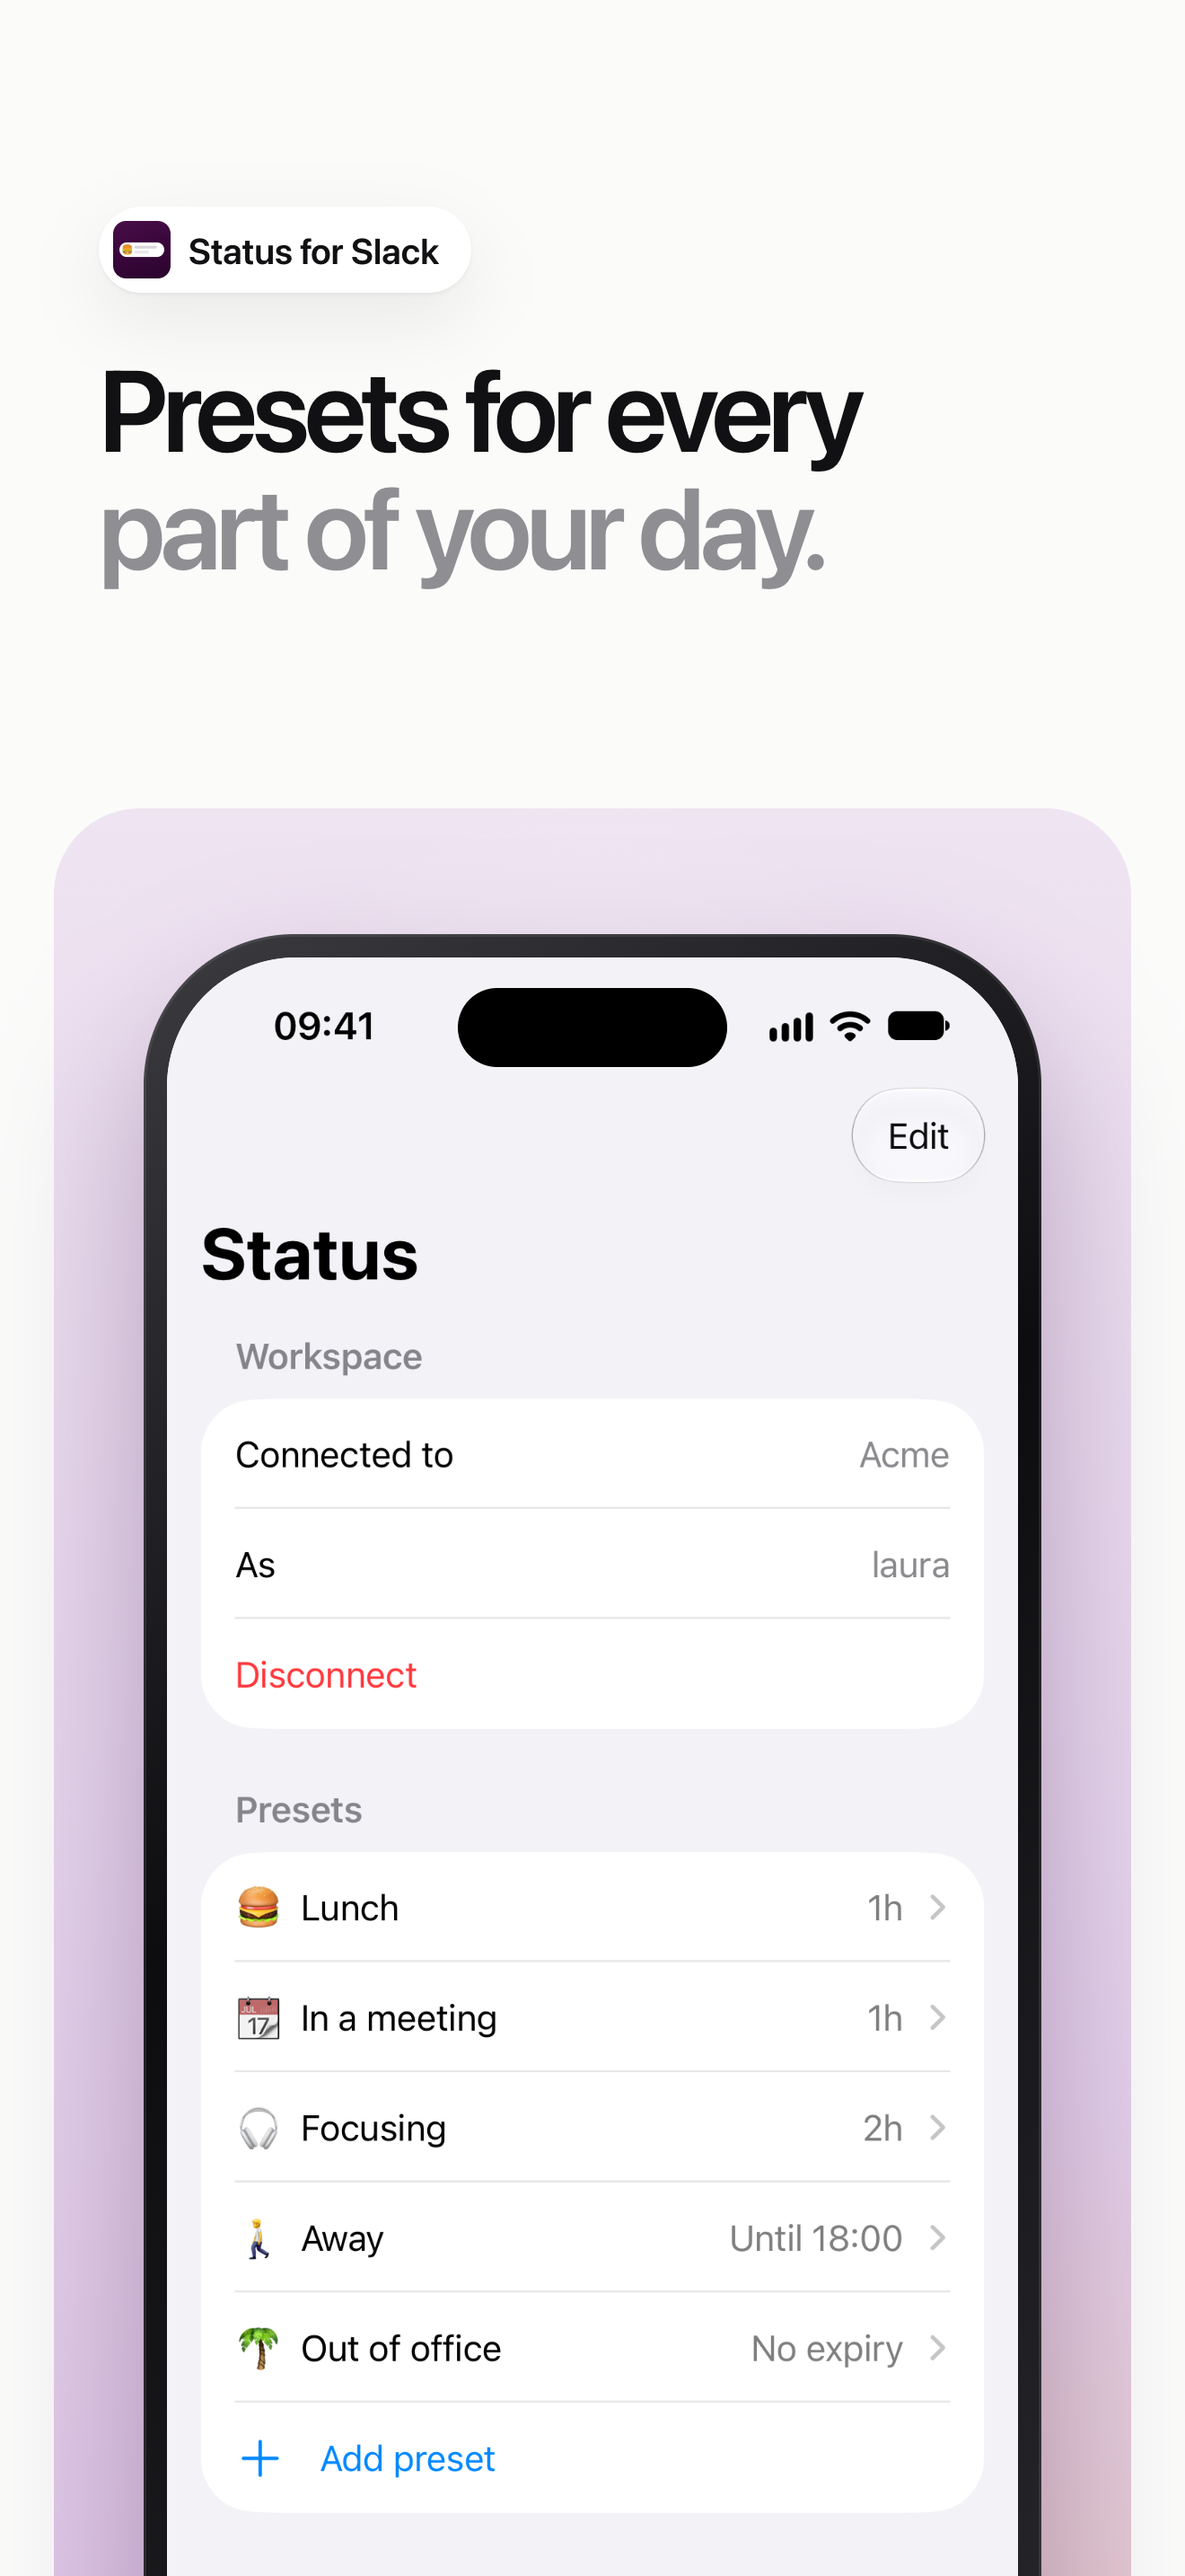
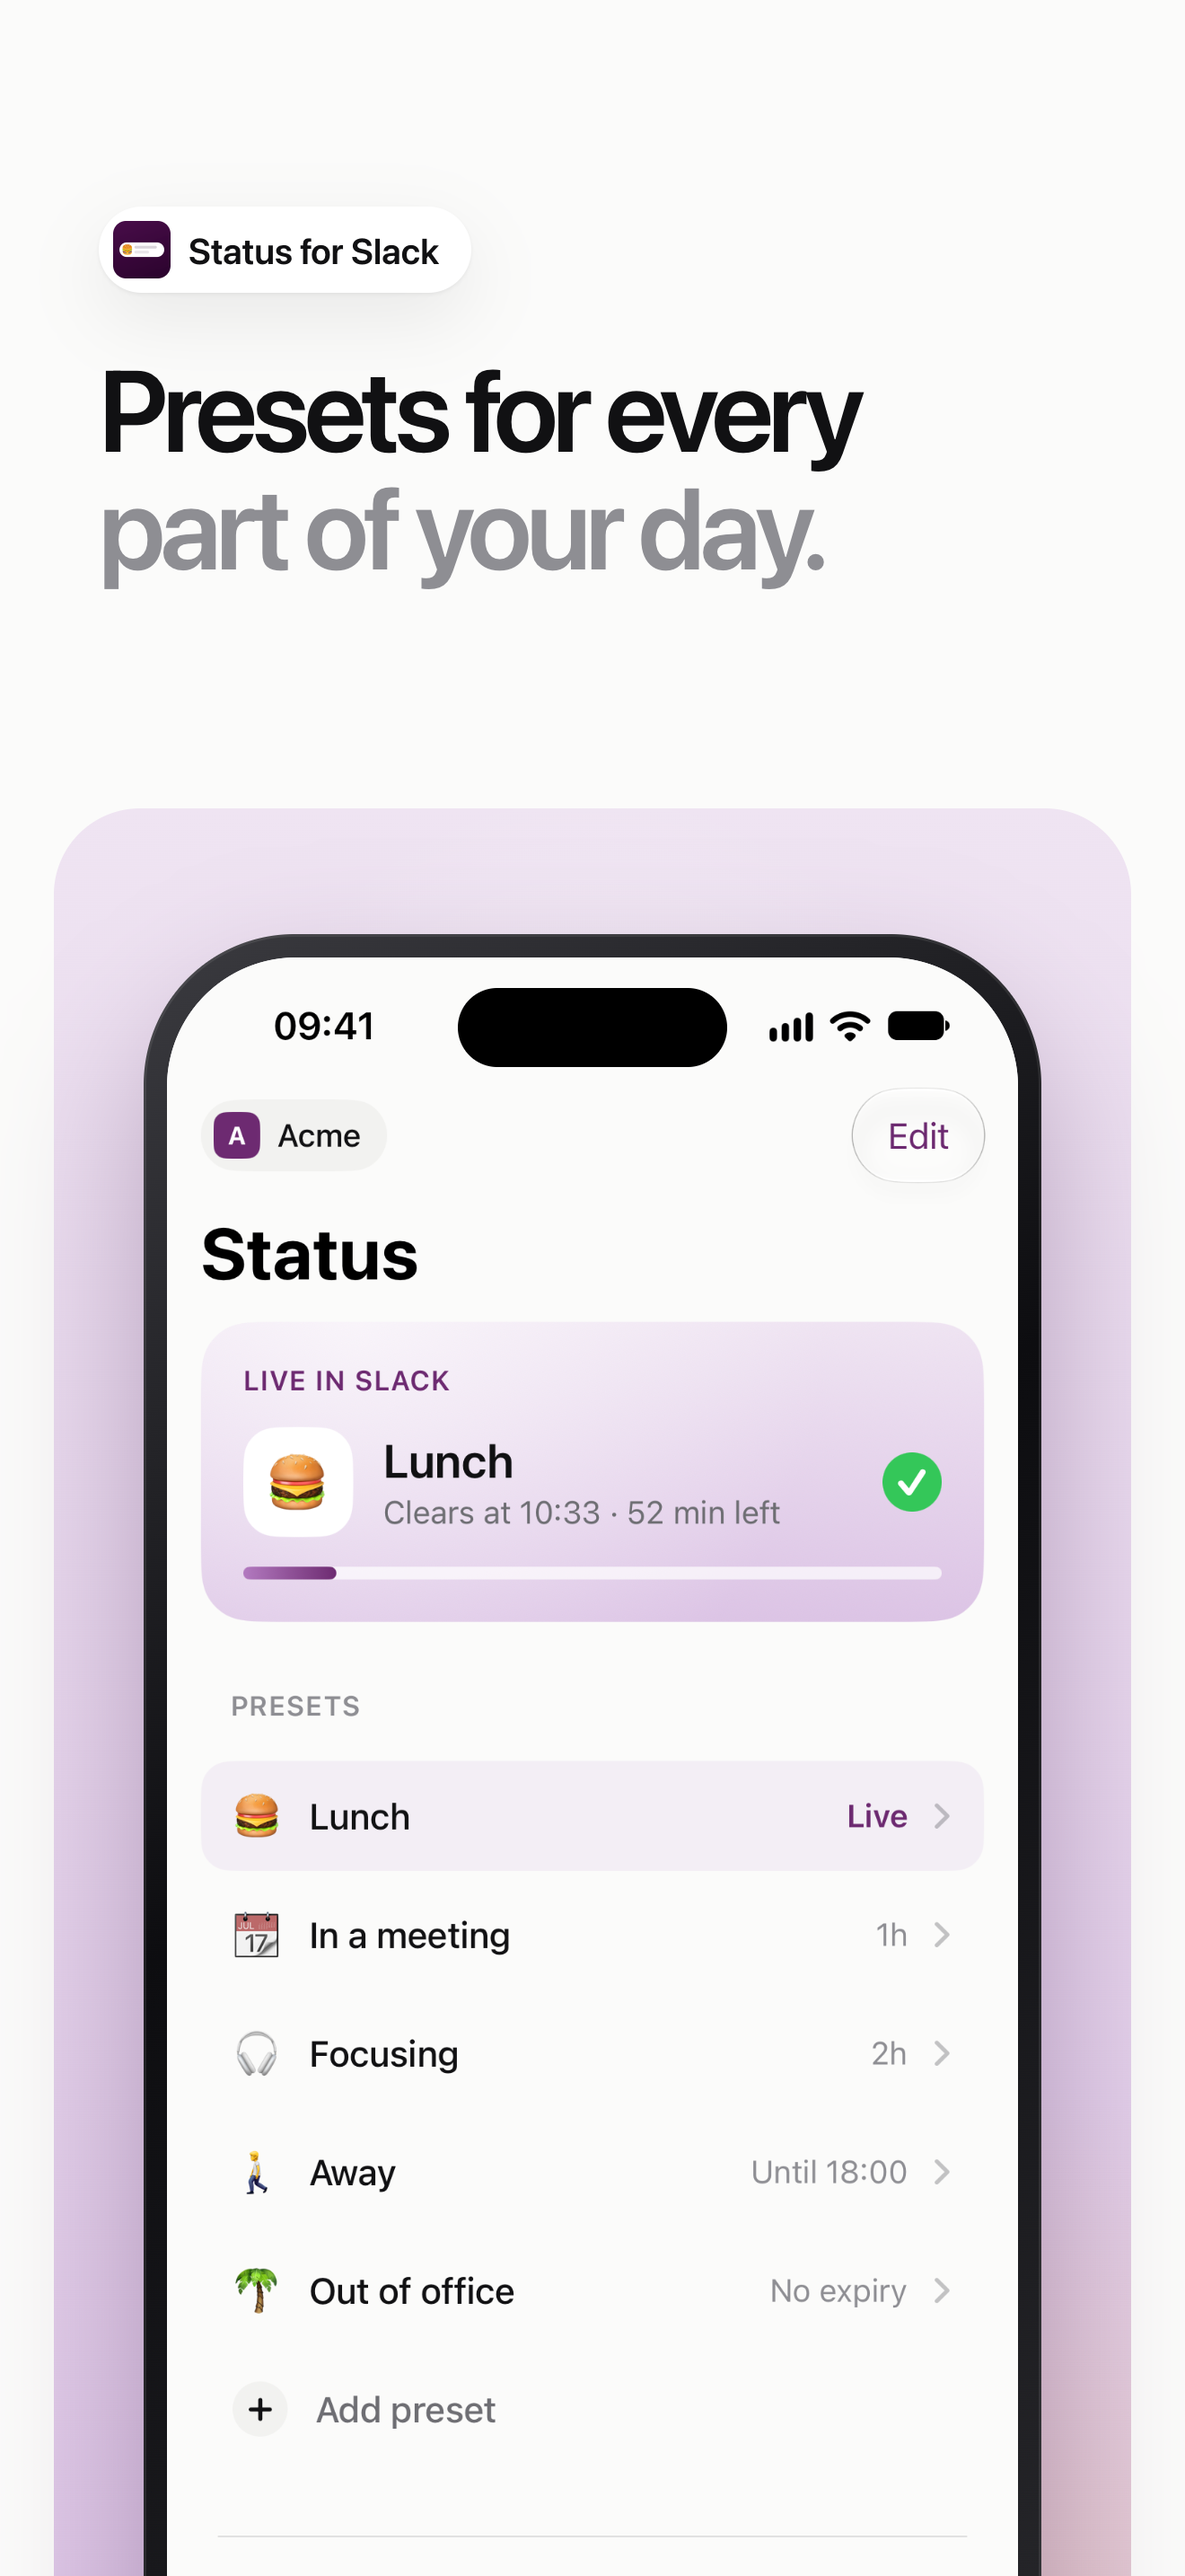
Recapture the App Store screenshots from the redesigned app
The raw iPhone and watch captures now show the new presets screen with the
Live in Slack card, the new editor, and the watch's live row. Every slide,
the product page header and the search results image are re-rendered from
them, and the expiry slide's Lunch pill moves off the duration chips.

Screenshot mode on the iPhone pins its clock to 9:41, matching the status
bar, so the live card reads Clears at 10:33 on every capture.

diff --git a/Apps/Phone/PhoneModel.swift b/Apps/Phone/PhoneModel.swift
@@ -23,6 +23,11 @@ final class PhoneModel {
   private let presetFile = PresetFile()
   private let session = PhoneSession()
   private var isScreenshotMode = false
+  /*
+   Screenshot mode pins the clock to 9:41, the time in the status bar, so the live
+   card reads the same on every capture. Nil everywhere else
+   */
+  private(set) var frozenNow: Date?
 
   init() {
     #if DEBUG
@@ -30,7 +35,9 @@ final class PhoneModel {
       presets = StatusPreset.defaults
       identity = SlackIdentity(team: "Acme", user: "laura")
       isConnected = true
-      currentStatus = presets.first?.slackStatus(at: .now.addingTimeInterval(-8 * 60))
+      let nineFortyOne = Calendar.current.date(bySettingHour: 9, minute: 41, second: 0, of: .now) ?? .now
+      frozenNow = nineFortyOne
+      currentStatus = presets.first?.slackStatus(at: nineFortyOne.addingTimeInterval(-8 * 60))
       isScreenshotMode = true
       return
     }

diff --git a/AppStore/design/03-expiry.html b/AppStore/design/03-expiry.html
@@ -2,4 +2,4 @@
 <p class="sub">After an hour, or at 6 pm. No more “In a meeting” at midnight.</p></div>
 <div class="showcase" style="top:1040px"></div>
 <div class="phone" style="left:160px;top:1180px"><div class="screen"><img src="../raw/phone-editor.png"><div class="island"></div></div></div>
-<div class="pill" style="left:360px;top:2240px"><img src="burger.png"><div>Lunch<small>Until 13:00</small></div></div></body>
+<div class="pill" style="left:780px;top:1500px"><img src="burger.png"><div>Lunch<small>Until 13:00</small></div></div></body>

diff --git a/Apps/Phone/ContentView.swift b/Apps/Phone/ContentView.swift
@@ -233,7 +233,7 @@ private struct ConnectedView: View {
 
   var body: some View {
     TimelineView(.periodic(from: .now, by: 30)) { context in
-      list(now: context.date)
+      list(now: model.frozenNow ?? context.date)
     }
     .listStyle(.plain)
     .scrollContentBackground(.hidden)
